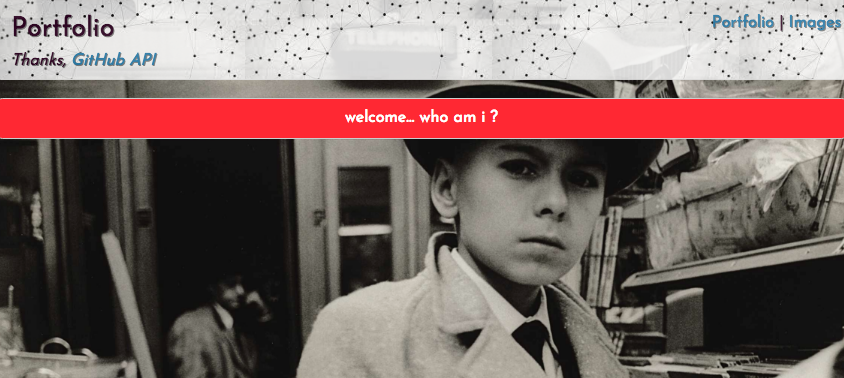
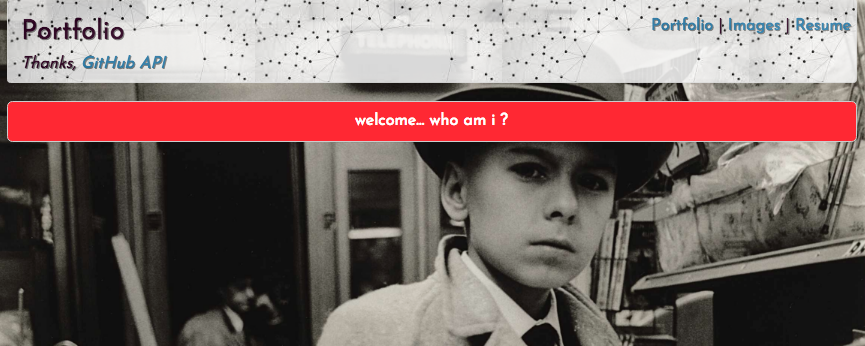
add resume component with screenshot

diff --git a/src/components/App.jsx b/src/components/App.jsx
@@ -5,6 +5,7 @@ import { Switch, Route } from 'react-router-dom';
 import Header from './Header';
 import Images from './Images';
 import Background from './../images/background.jpg';
+import Resume from './Resume';
 
 function App(props) {
   var backgroundStyle = {
@@ -24,6 +25,7 @@ function App(props) {
       <Switch>
         <Route exact path="/" component={Portfolio}/>
         <Route path="/images" component={Images}/>
+        <Route path="/resume" component={Resume}/>
         <Images/>
       </Switch>
     </div>

diff --git a/src/components/Header.jsx b/src/components/Header.jsx
@@ -21,7 +21,7 @@ function Header(){
           <h4><em>Thanks, <a href="https://developer.github.com/v3/">GitHub API</a></em></h4>
         </div>
         <div style={link} className="nav navbar-nav navbar-right">
-          <h4><Link to="/">Portfolio</Link> | <Link to="/images">Images</Link></h4>
+          <h4><Link to="/">Portfolio</Link> | <Link to="/images">Images</Link> | <Link to="/resume">Resume</Link></h4>
         </div>
       </div>
     </div>

diff --git a/src/components/Resume.jsx b/src/components/Resume.jsx
@@ -1,0 +1,19 @@
+import React from "react";
+import Cv from "./../images/resume.png";
+
+function Resume(){
+  var resume = {
+    width: 500,
+    height: 600,
+    display: "block",
+    margin: "auto",
+    boxShadow: "8px 8px 5px grey"
+  }
+  return (
+    <div>
+      <img style={resume} src={Cv}/>
+    </div>
+  );
+}
+
+export default Resume;

diff --git a/README.md b/README.md
@@ -14,6 +14,8 @@ Special thanks to GitHub's API: https://developer.github.com/v3/
 
 ![Portfolio](src/images/portfolio.png)
 
+![Resume](src/images/resume.png)
+
 ## Prerequisites
 * [Node.js](https://nodejs.org/) (with NPM)
 
